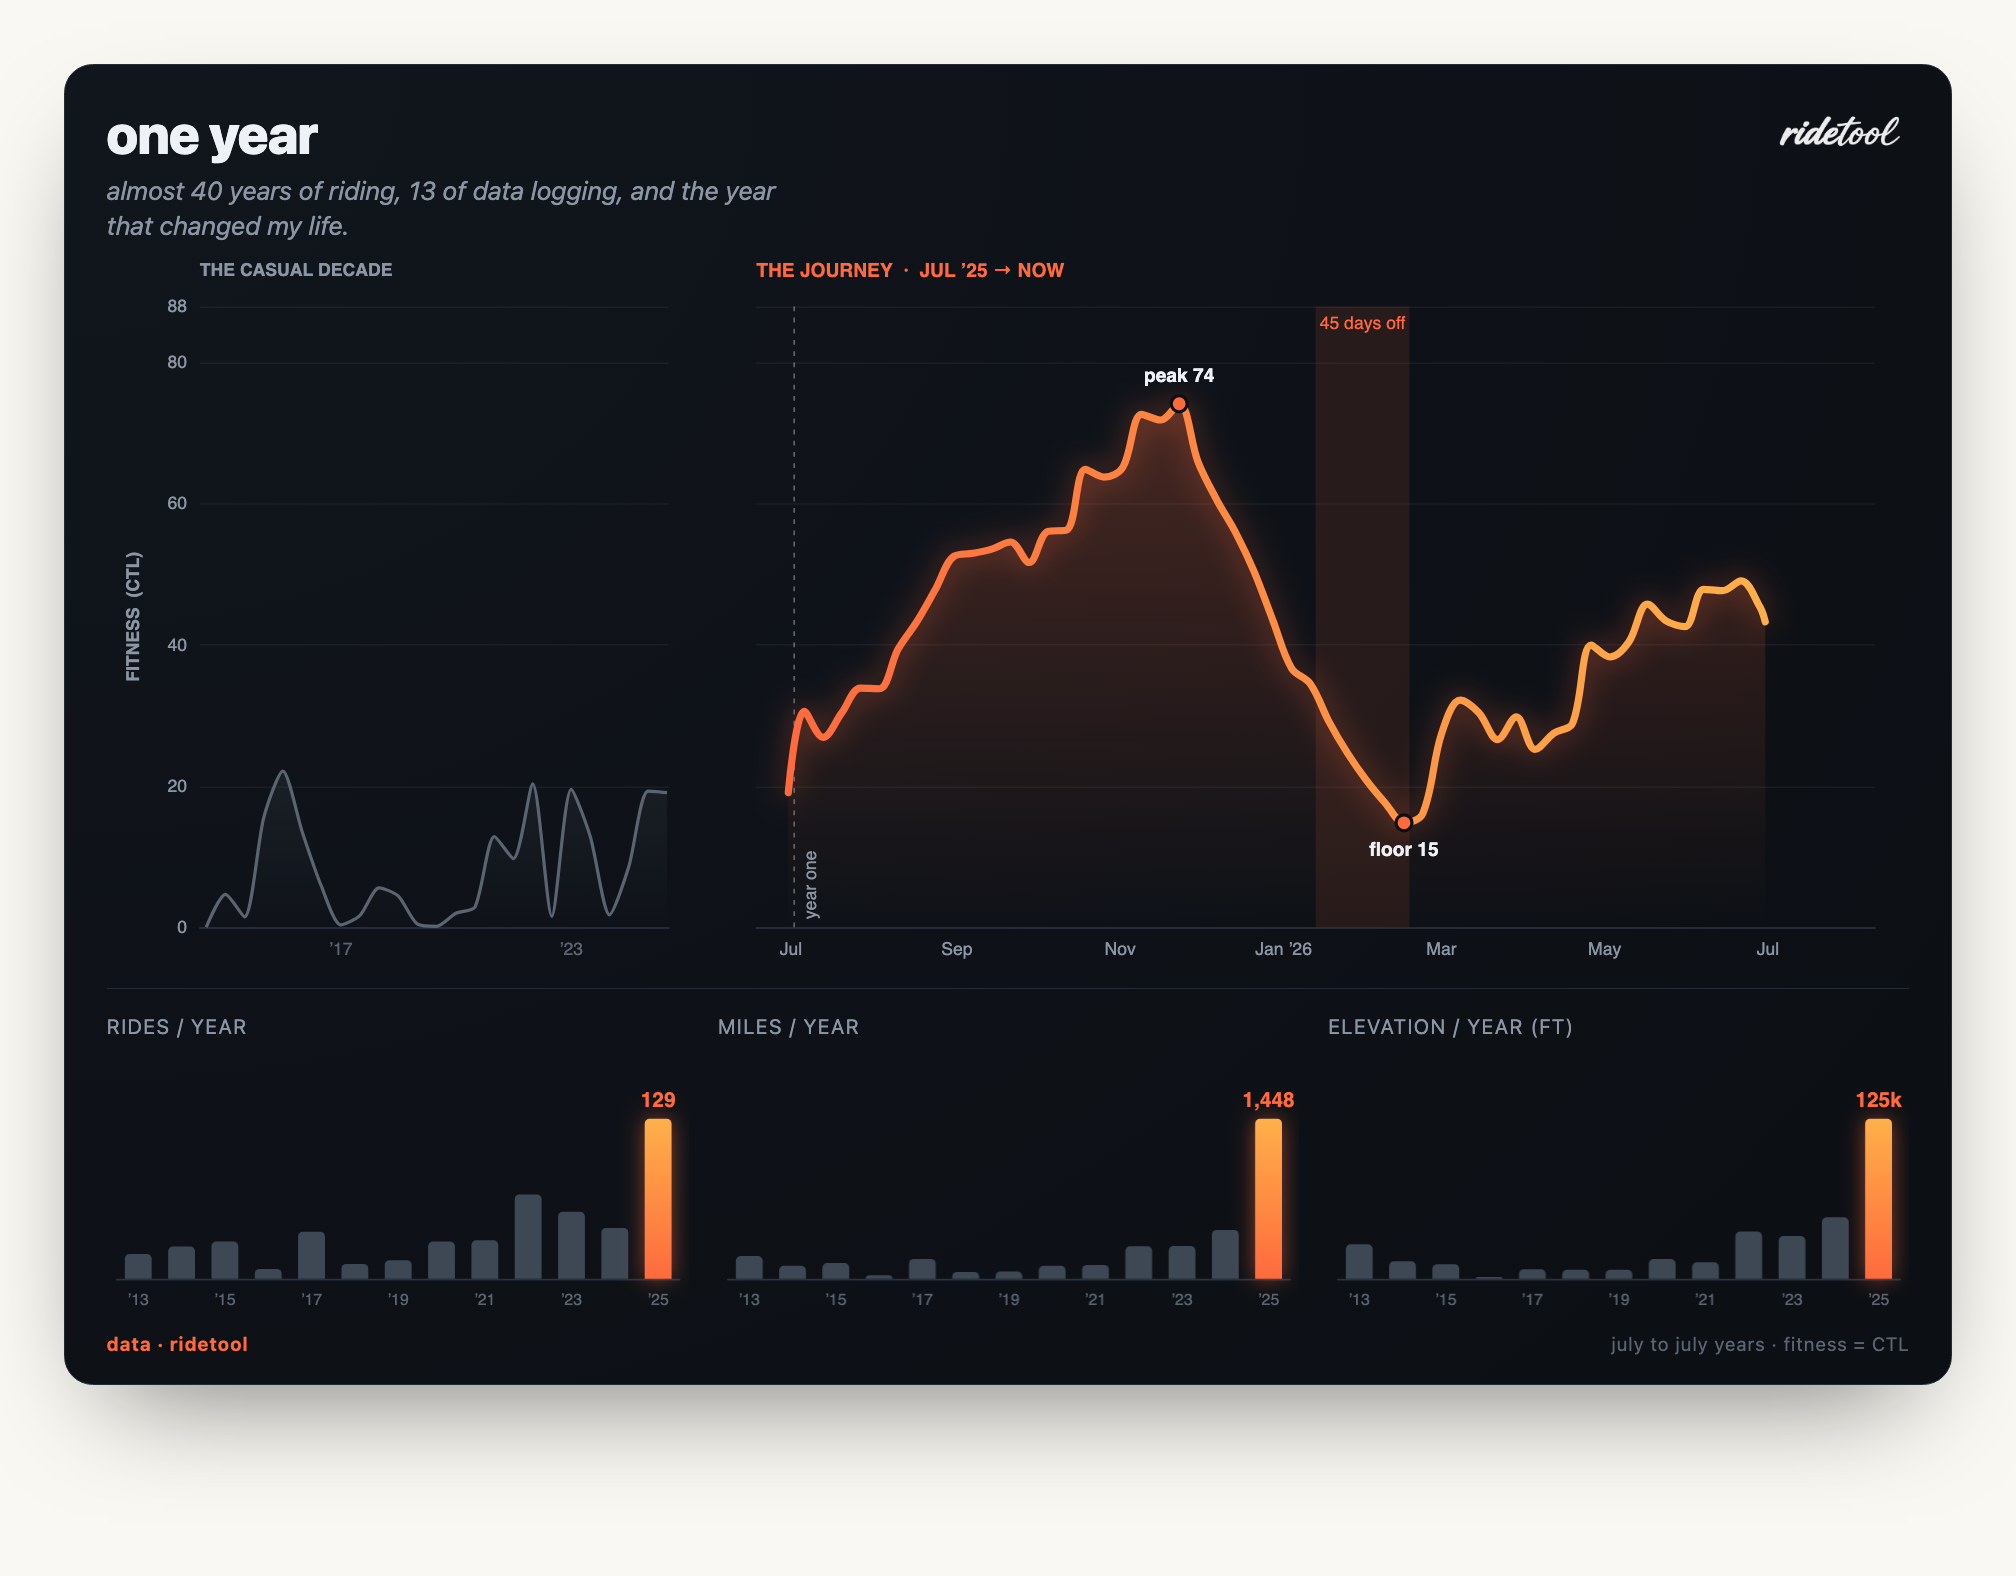
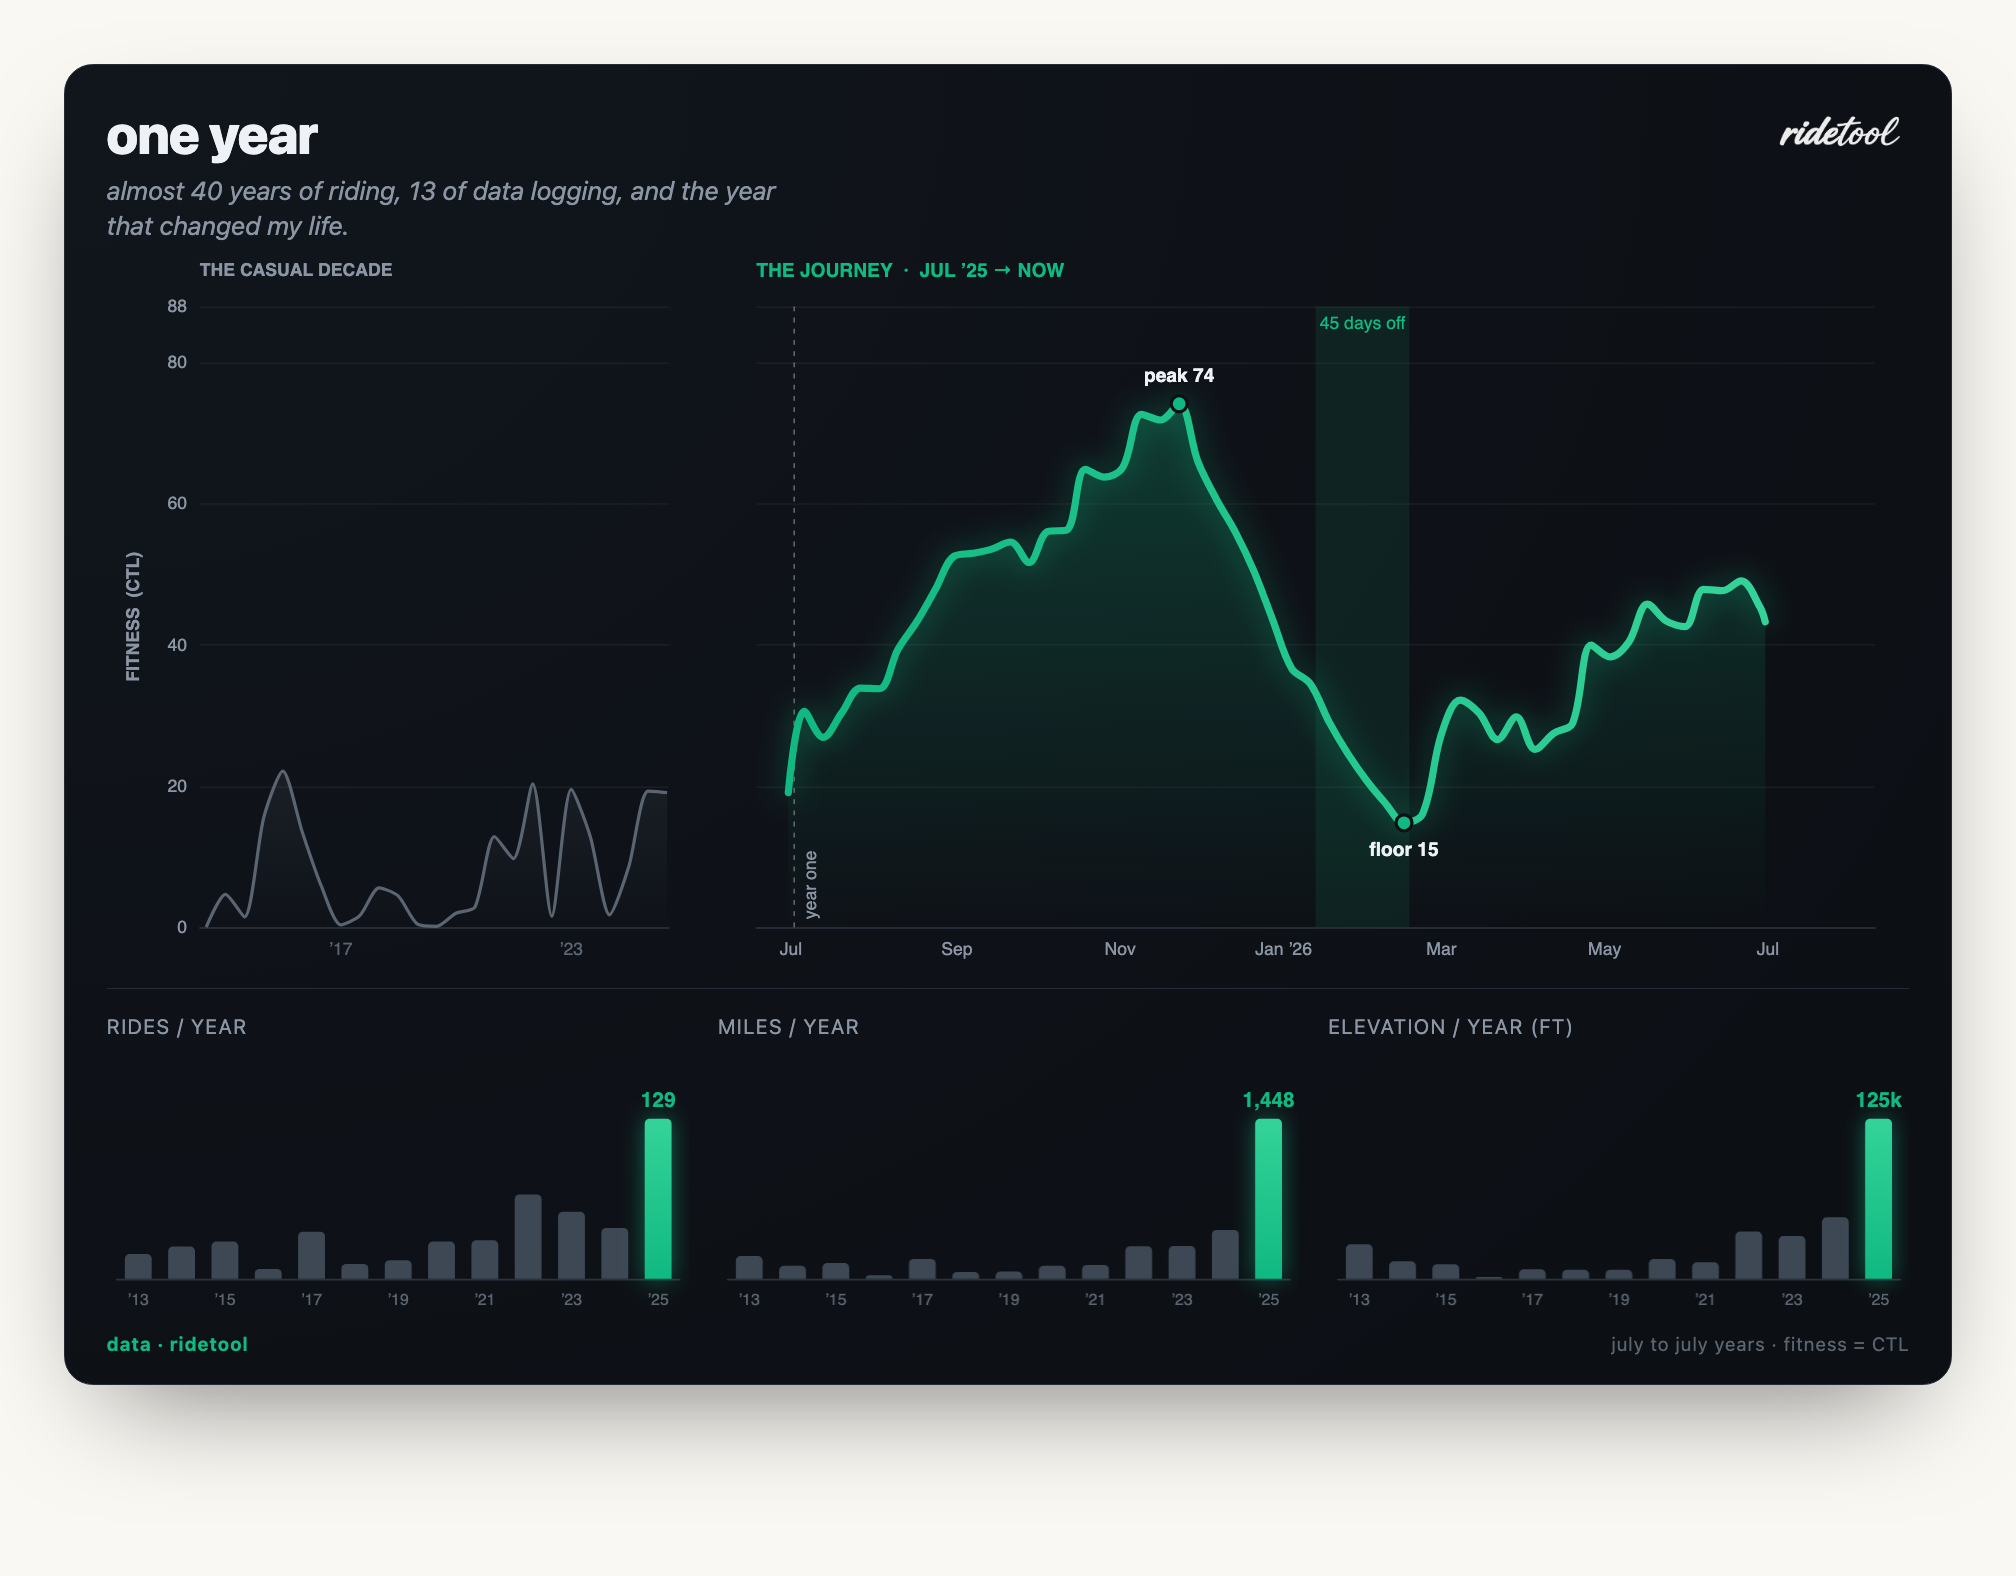
One Year: recolor chart ridetool green, weave post links, add click-to-enlarge

diff --git a/bin/build-one-year-chart.html b/bin/build-one-year-chart.html
@@ -9,7 +9,7 @@
   html,body{margin:0;background:#faf8f3;}
   .stage{padding:40px;display:flex;justify-content:center;}
   .rt-embed{--rt-bg1:#0c0f14;--rt-bg2:#11161d;--rt-bd:#222b36;--rt-ink:#eef1f5;
-    --rt-mut:#8b95a3;--rt-faint:#5b6571;--rt-acc:#ff6a3d;--rt-acc2:#ffb04a;
+    --rt-mut:#8b95a3;--rt-faint:#5b6571;--rt-acc:#10b981;--rt-acc2:#34d399;
     width:1180px;}
   .rt-card{background:radial-gradient(120% 140% at 0% 0%,var(--rt-bg2),var(--rt-bg1));
     border:1px solid var(--rt-bd);border-radius:18px;padding:26px 26px 18px;
@@ -57,7 +57,7 @@
   </div>
 </div>
 <script>
-var ACC='#ff6a3d',ACC2='#ffb04a',MUT='#8b95a3',FAINT='#5b6571',
+var ACC='#10b981',ACC2='#34d399',MUT='#8b95a3',FAINT='#5b6571',
     GRID='rgba(255,255,255,0.05)',INK='#eef1f5';
 var MONTHS=['Jan','Feb','Mar','Apr','May','Jun','Jul','Aug','Sep','Oct','Nov','Dec'];
 var baseline=[["2013-07-01",0.0],["2013-12-31",4.65],["2014-06-30",1.46],
@@ -122,11 +122,11 @@ f.setOption({
       lineStyle:{color:FAINT,width:2},
       areaStyle:{color:vgrad('rgba(91,101,113,.22)','rgba(91,101,113,0)')},z:2},
     {type:'line',xAxisIndex:1,yAxisIndex:1,data:journey,showSymbol:false,smooth:0.35,
-      lineStyle:{color:grad(ACC,ACC2),width:4.5,shadowColor:'rgba(255,106,61,.55)',shadowBlur:18,cap:'round'},
-      areaStyle:{color:vgrad('rgba(255,106,61,.34)','rgba(255,106,61,0)')},z:5,
+      lineStyle:{color:grad(ACC,ACC2),width:4.5,shadowColor:'rgba(16,185,129,.55)',shadowBlur:18,cap:'round'},
+      areaStyle:{color:vgrad('rgba(16,185,129,.34)','rgba(16,185,129,0)')},z:5,
       markLine:{symbol:'none',silent:true,lineStyle:{color:'rgba(255,255,255,.35)',type:[3,4],width:1},
         label:{color:MUT,fontSize:11,formatter:'year one',position:'insideStartBottom'},data:[{xAxis:'2025-07-02'}]},
-      markArea:{silent:true,itemStyle:{color:'rgba(255,106,61,.10)'},
+      markArea:{silent:true,itemStyle:{color:'rgba(16,185,129,.10)'},
         label:{color:ACC,fontSize:11,position:'insideTop',formatter:'45 days off'},
         data:[[{xAxis:'2026-01-13'},{xAxis:'2026-02-17'}]]},
       markPoint:{symbolSize:10,symbol:'circle',
@@ -144,7 +144,7 @@ var feet=[27.1,13.7,11.5,1.5,7.5,7.1,7.1,15.5,12.9,37.0,33.5,48.2,125.4];
 function bar(id,data,fmt){
   var bars=data.map(function(v,i){var last=i===data.length-1;
     return {value:v,itemStyle:{color:last?vgrad(ACC2,ACC):'#3d4854',borderRadius:[3,3,0,0],
-      shadowColor:last?'rgba(255,106,61,.5)':'transparent',shadowBlur:last?14:0}};});
+      shadowColor:last?'rgba(16,185,129,.5)':'transparent',shadowBlur:last?14:0}};});
   echarts.init(document.getElementById(id)).setOption({animation:false,
     grid:{left:6,right:6,top:24,bottom:22},tooltip:{trigger:'axis',axisPointer:{type:'shadow'}},
     xAxis:{type:'category',data:yr,axisLine:{lineStyle:{color:'#2a333f'}},axisTick:{show:false},

diff --git a/_drafts/one-year.md b/_drafts/one-year.md
@@ -11,15 +11,15 @@ headimage: "/assets/images/bike_sequence_final.jpg"
 image: "/assets/images/bike_sequence_final.jpg"
 ---
 
-It was almost a year ago now that I had that beer. Okay, beers.
+It was almost a year ago now that I had [that beer](/origin_story/). Okay, beers.
 
-[After my annual giant solo ride in Telluride](/origin_story/) on my then-fairly-new Yeti MTe, some of the sweetest high country singletrack in the world, I was exhausted. I made my way back down to the mountain village and grabbed a beer at the Telluride brewpub. The Tempter IPA, specifically.
+After my annual [giant solo ride](https://share.ridetool.cc/s/Jux8UJd5ll1ABWHA0FZEuQ) in Telluride on my then-fairly-new Yeti MTe, some of the sweetest high country singletrack in the world, I was exhausted. I made my way back down to the mountain village and grabbed a beer at the Telluride brewpub. The Tempter IPA, specifically.
 
 On the first beer I was thinking *I need a change. More riding. More days like this. How do I get my family to live here?* By beer three I'd realized it was more subtle than that. I didn't need to leave Austin. I just needed to get on my fucking bike more. For all the obvious reasons. Physical health, mental health, all of it. By beer four, slurring through my sentences, a question bubbled up: *what if I just rode my bike, like every day or two? what would happen to my life?*
 
 Well. I've been doing exactly that for a year. By the time you read this, it'll be a full fucking year of riding bikes more.
 
-Me first, bike first, everyone and everything else second. It sounds selfish. It's not. If you believe the benefits, the order of operations is clear. You get your body and your head straight, *then* you go into battle. Your strength comes from that place first. It lifts everything around you. It makes you better able to serve your spouse, your kids, your job, and all the shit that flies at you every day. It helps you weather the cadence of shit, the hard times, the big decisions. And it helps you actually understand the grand moments too. The ones where you need to sit back, take it in, and feel grateful and blessed.
+Me first, bike first, everyone and everything else second. It sounds selfish. It's not. If you believe the benefits, the order of operations is clear. You get your body and your head straight, *then* you go into battle. Your strength comes from that place first. It lifts everything around you. It makes you better able to serve your spouse, your kids, your job, and all the shit that flies at you every day. It helps you weather the cadence of shit, the hard times, the big decisions. And it helps you actually understand the grand moments too. The ones where you need to sit back, take it in, and [feel grateful and blessed](/personal/memoir/rides/2025/11/26/i-get-to.html).
 
 So what did it look like? Let's get into the change. The numbers, where I was, where I am now, and lastly, where do we go from here?
 
@@ -35,15 +35,15 @@ But there's been a giant lull in my riding arc since the 2000s, as life took ove
 
 Fast forward to the 2010s and I taught my kids to ride. We'd hit Colorado every year and I'd ride behind them, shepherding them like little ducks, teaching them the way of the MTB. I'd ride behind them at Crested Butte, Snowmass, Telluride, Angelfire, Purgatory and more. Both my daughter and son are rippers at heart now. My son crushes me now, so, there's that.
 
-And there I was. Telluride, on the mountain, my favorite place on earth, heaven, drinking this beer. 55 years old, bike sitting right there. Fundamentals done. Parenting, bike-wise, done. It was my time. I'd gained weight, gotten lazy, fitness in the toilet. Skills locked in, but aging.
+And there I was. Telluride, on the mountain, my favorite place on earth, heaven, drinking this beer. [55 years old](/stories/journey/2026/02/01/fifty-five.html), bike sitting right there. Fundamentals done. Parenting, bike-wise, done. It was my time. I'd gained weight, gotten lazy, fitness in the toilet. Skills locked in, but aging.
 
 I was reminded of the dude at Purgatory. Yeti Gathering, 2018. We saw him out on the mountain, 65 years old, ripping. We stopped and chatted, then he took off, absolutely hair on fire off the drop, over the double, a whoop out of his mouth, then gone. I'd have thought it was god talking to me, except the kids saw him too.
 
 *If not now, when?*
 
 <div class="photo-caption">
-  <img src="/assets/images/one_year_trajectory.png" alt="ridetool fitness trajectory: a flat decade of fitness, then a sharp climb to a peak of 74 in the journey year, an injury crash to 15, and a rebuild.">
-  <span class="caption">created using RideTool MCP and Claude Code</span>
+  <a href="/assets/images/one_year_trajectory.png" target="_blank" rel="noopener"><img src="/assets/images/one_year_trajectory.png" alt="ridetool fitness trajectory: a flat decade of fitness, then a sharp climb to a peak of 74 in the journey year, an injury crash to 15, and a rebuild."></a>
+  <span class="caption">created using RideTool MCP and Claude Code · tap to enlarge</span>
 </div>
 
 ## the year
@@ -52,9 +52,9 @@ The year started out with a bang. No more beer, strict diet, and riding. A lot. 
 
 I could write a book at this point on what eMTB means to me, and I might. For now I'll sum it up this way: without eMTB technology, this year would have been near impossible. So, hat tip to the eMTB gods. If you're over 40 and you need to ride more and you're not going to enter races, then, uh, dude, get an eMTB. You can always lower the power as you gain fitness. I'll write a whole piece on this later so the haters can hate over there.
 
-Over the fall I bought the Santa Cruz Stigmata and entered Dos Gravel. Got it done. Then I built up the SB150 into a Breakfast Ride so I'd have an analog bike that was XC-ish, and raced it at Rattler and Fat Chuck's Revenge. My fitness peaked around December, right when the holidays hit after Fat Chuck's. I'd built up a new SB140 and she was sweet. I had the fitness, the bike, the trails, the crew. All was well.
+Over the fall I bought the Santa Cruz Stigmata and entered [Dos Gravel](/2025/10/10/the-first-gravel.html). Got it done. Then I built up the SB150 into a [Breakfast Ride](/2025/10/19/sb150br-breakfast-ride-build.html) so I'd have an analog bike that was XC-ish, and raced it at [Rattler](/2025/11/11/my-2025-austin-rattler-race.html) and [Fat Chuck's Revenge](/2025/12/22/fear-and-loathing-in-smithville.html). My fitness peaked around December, right when the holidays hit after Fat Chuck's. I'd built up a new SB140 and she was sweet. I had the fitness, the bike, the trails, the crew. All was well.
 
-Then disaster struck.
+Then [disaster struck](/stories/mountain%20biking/2026/01/09/the-left-turn.html).
 
 My MCL decided it needed a break. I was pushing hard after the holiday layoff. Fitness down a notch, but my head still all the way in the game. I literally pulled my MCL apart just pushing pedals. Then, to add insult to injury, the stress of it set off a giant gout attack. Knee, ankle, toes. I was fucking cooked. Lucky it was a tear and no surgery required, but it meant time off the bike. 45 days, to be precise. Almost exactly what it takes to lose six months of progress. Ironic, eh? I gained 10 pounds back and watched my fitness slide right off the chart.
 
@@ -64,13 +64,13 @@ Well, I'd done it once. Might as well do it again. I wasn't going to give up tha
 
 But I had some time to kill, and my brain wasn't broken, no more than normal, and you can only watch so many episodes of Impossible Routes on YouTube while you sit on the couch icing your knee. So I picked up my laptop and started to code.
 
-The entire fall season I'd been running a Wahoo computer, an HR strap, and Strava plus Intervals.icu as my data stack. I've recorded every ride since 2012, so this was no different. I went into this journey fully data-engaged. But through the fall I'd started to want more. Strava is a social network with some fitness stuff bolted on. Intervals.icu takes a PhD in data analysis to actually use. And I build data systems for a living, so if *I* couldn't read Intervals, then, duuuude. I needed something more. And I wanted to use this new breed of Claude tooling to full effect.
+The entire fall season I'd been running a Wahoo computer, an HR strap, and Strava plus Intervals.icu as my data stack. I've [recorded every ride since 2012](/notes/tech/training/2026/01/22/the-two-wheeled-data-acquisition-machine.html), so this was no different. I went into this journey fully data-engaged. But through the fall I'd started to want more. Strava is a social network with some fitness stuff bolted on. Intervals.icu takes a PhD in data analysis to actually use. And [I build data systems for a living](/2025/12/16/god-is-in-the-data.html), so if *I* couldn't read Intervals, then, duuuude. I needed something more. And I wanted to use this new breed of Claude tooling to full effect.
 
 So I built [ridetool](/stories/tech/2026/02/24/i-built-a-thing.html). It's the thing I wanted and needed for this journey. An AI-enabled, common-sense fitness software system that would help me repeat my fall fitness arc.
 
-As I came out of the injury, I used ridetool to keep my fitness load under a certain value each week. A slow ramp, on my doctor's advice. I also used it to gauge where to set the power on the eMTB, and when I was good to ride and then push on analog. It was like a superpower. I knew what I had under me. I kept wishing I'd had this capability all through the fall. It would have been so helpful.
+As I came out of [the injury](/stories/journey/2026/01/19/reset.html), I used ridetool to keep my fitness load under a certain value each week. A slow ramp, on my doctor's advice. I also used it to gauge where to set the power on the eMTB, and when I was good to ride and then push on analog. It was like a superpower. I knew what I had under me. I kept wishing I'd had this capability all through the fall. It would have been so helpful.
 
-So, recovery complete, fitness restored, head in the game through March, April, May, June. Riding two or three times a week, having so much fun with the pressure off. I knew I could do it and I knew what it would take. I didn't schedule any races. I didn't need to. I know where my fitness is. I didn't need to race to prove I wasn't fat. Just ripping on the bike, enjoying every second of it, pushing myself to get better. And now with a bunch more bikes.
+So, recovery complete, fitness restored, head in the game through March, April, May, June. Riding two or three times a week, having so much fun with the pressure off. I knew I could do it and I knew what it would take. I didn't schedule any races. I didn't need to. I know where my fitness is. I didn't need to race to prove I wasn't fat. Just ripping on the bike, enjoying every second of it, pushing myself to get better. There were [margarita night rides](/stories/journey/2026/04/12/marg-shack-run.html) with the crew and a [road trip to Bentonville](/stories/journey/2026/05/01/the-land-of-oz.html) that turned into mud, tacos, and a hospital visit. And now with a bunch more bikes.
 
 ## where I am now
 
@@ -78,7 +78,7 @@ Looking back, I didn't just get back into riding. I didn't just self-identify as
 
 I have a new life now. A new cadence. A healthier, stronger person. A calmer, happier person. I proved not only that I could lose the weight, gain the fitness, and do it while having a blast. I proved I could do it twice. Muscle memory, literally. I have a new data company built out of this experience. Five bikes sitting here. And I know I'm doing everything I can to make sure I'm not dead if and when grandkids arrive.
 
-And the riding spilled into everything else. Somewhere in the middle of it I started writing this journal. I'm still not sure exactly why. I just felt the need, it felt good, so I kept going. I started making parts too. Stem risers, tool bag holders, little garage experiments, with more on the bench. Turns out when you get the engine running, it doesn't only move the bike.
+And the riding spilled into everything else. Somewhere in the middle of it I started writing this journal. I'm still not sure exactly why. I just felt the need, it felt good, so I kept going. I started [making parts](/2025/12/11/see-i-can.html) too. Stem risers, tool bag holders, little [garage experiments](/2025/12/02/kona-unit-ss-project.html), with more on the bench. Turns out when you get the engine running, it doesn't only move the bike.
 
 I'm teeing up that 65-year-old moment. The one where I rip a double, yell out a whoop, and disappear, leaving the bystanders to say *damn, that dude is rad.*
 